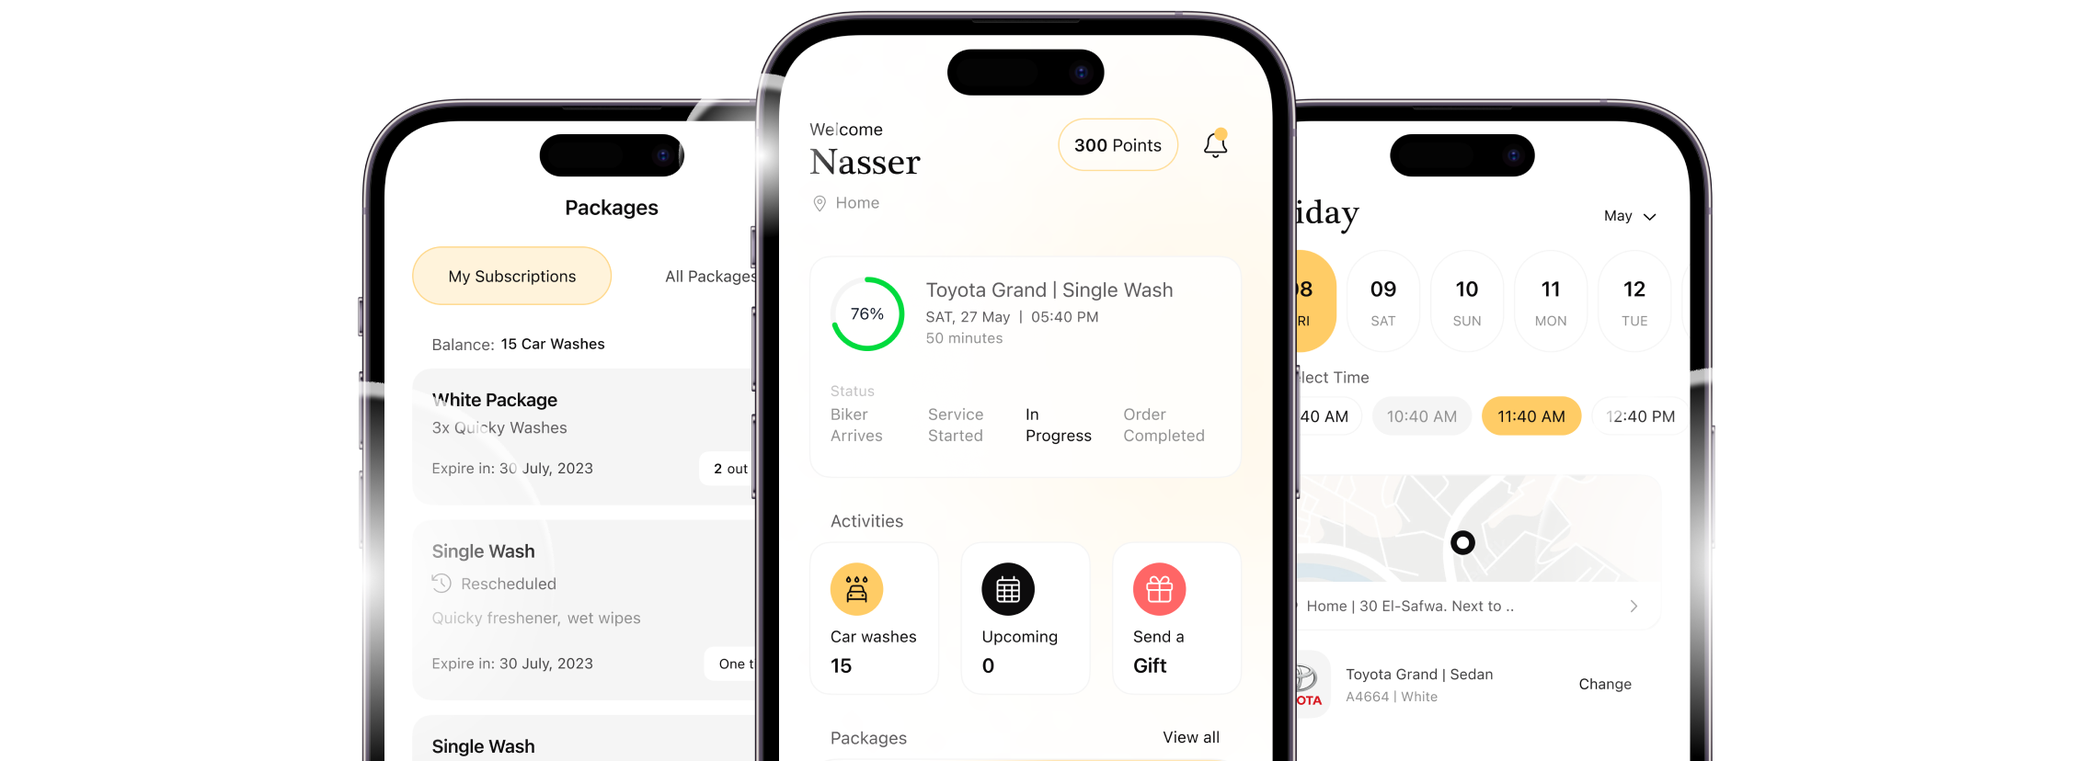
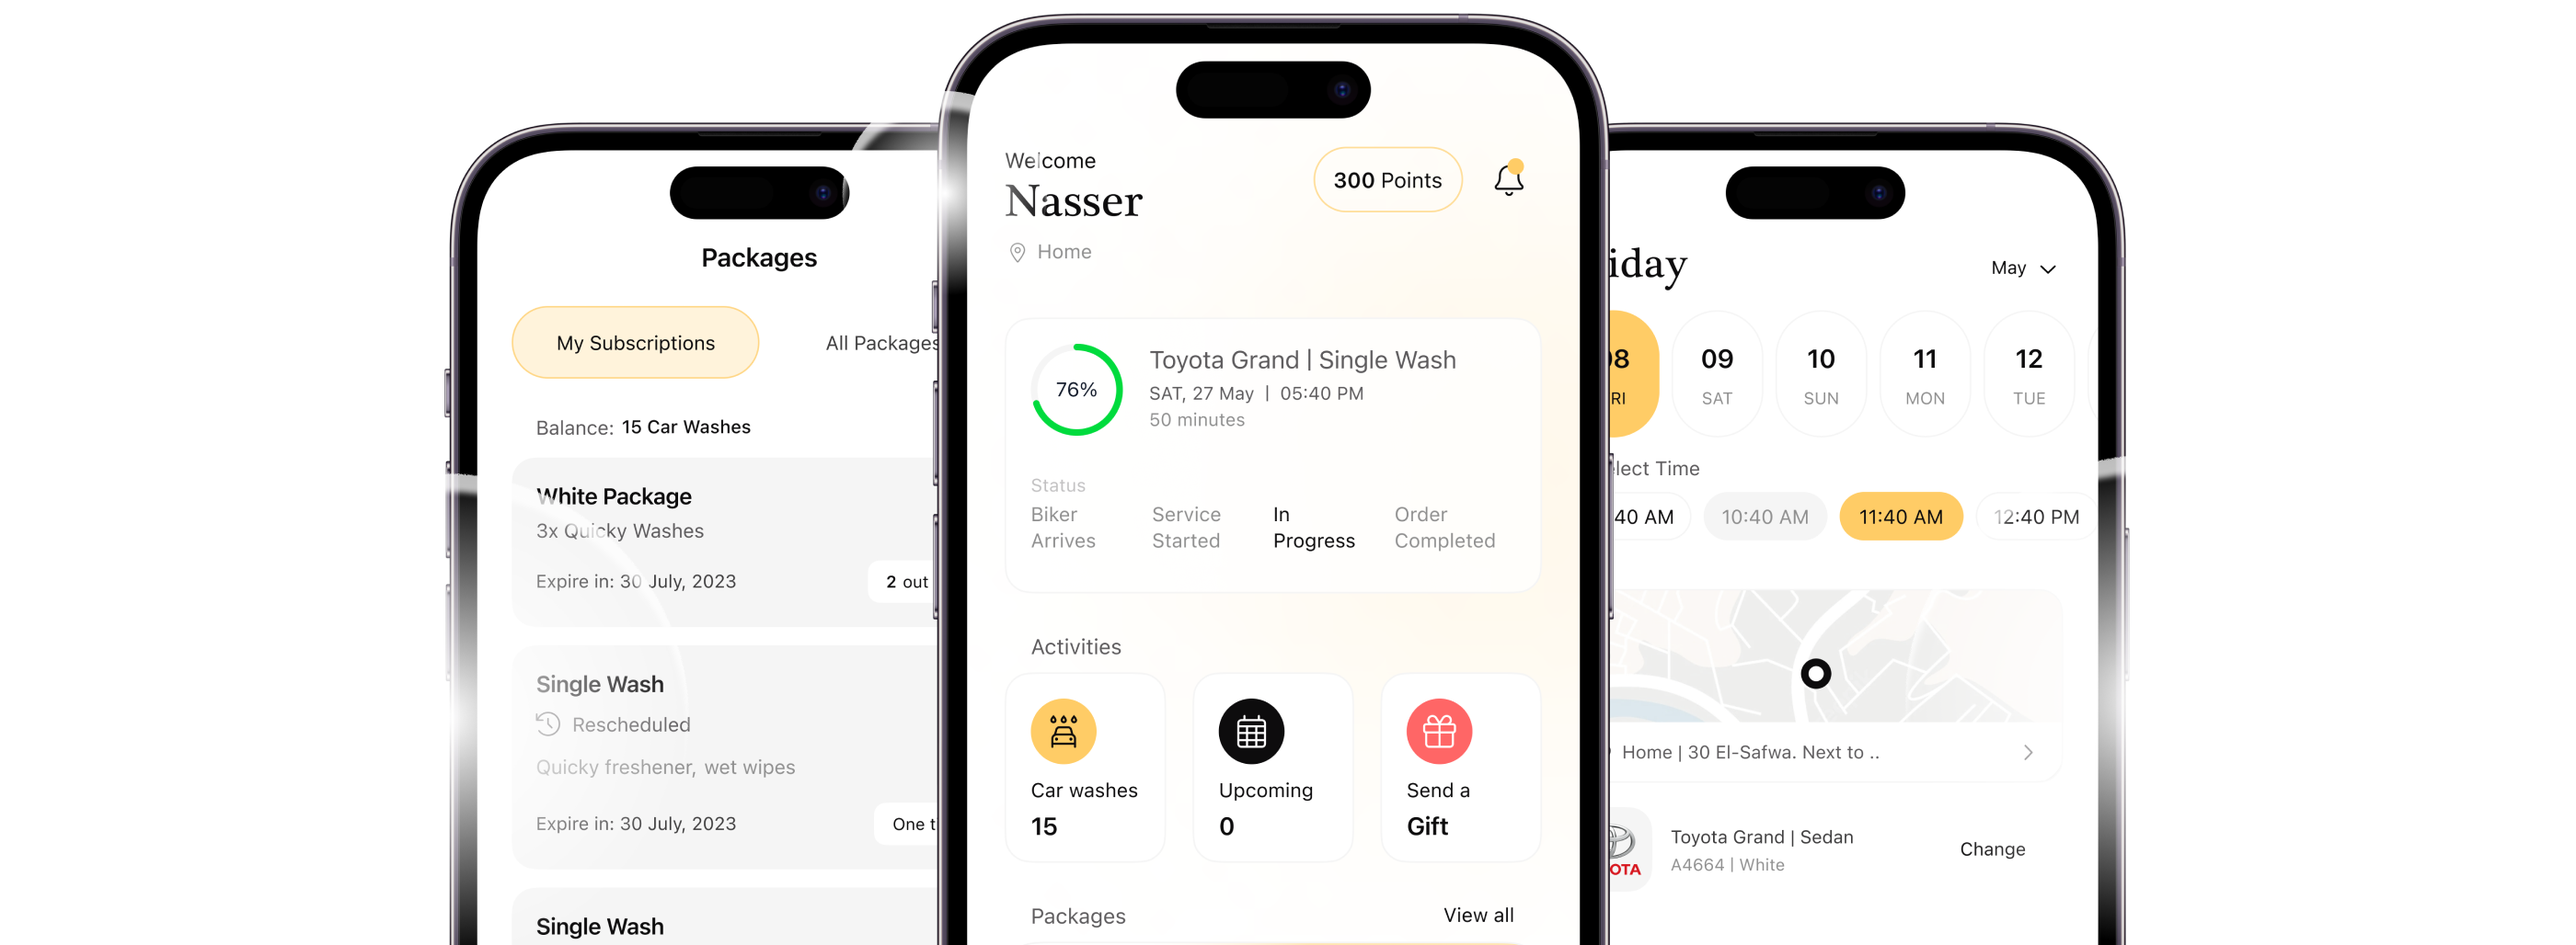
change-img

diff --git a/components/services.js b/components/services.js
@@ -11,7 +11,7 @@ const Services = () => {
     
         <div  class="grid px-5 lg:px-20 md:grid-cols-2  sm:grid-cols-1 gap-0  ">
        
-          <div className="flex flex-wrap justify-start text-right px-0 ">
+          <div className="flex flex-wrap justify-center md:justify-start md:text-right text-center px-0 ">
             <h5 className="bg-[#FFCC66] px-3 py-1 text-white">
             الخدمة و الجودة و الوقت.
             </h5>
@@ -19,36 +19,36 @@ const Services = () => {
 
             تعتزم كويكي كلين بتقديم أفضل المنتجات العالمية والأدوات ذات الجودة العالية لتكون الخيار الاول دائما للعملاء.            
             </h3>
-            <div className="max-w-sm flex flex-row justify-between mt-14 pt-2 gap-3 items-center">
+            <div className="max-w-sm flex flex-col md:flex-row justify-between mt-14 pt-2 gap-3 items-center">
             <span className="mx-0 px-0">
                 <Icon1 width={'65'} />
               </span>
-              <p className="max-w-2xl py-4 text-xs   text-gray-500 lg:text-sm xl:text-sm ">
+              <p className="max-w-2xl py-4 text-sm   text-gray-500 lg:text-base xl:text-base ">
               فرق من الخبراء المهتمين بتقديم أعلى مستويات الجودة والعناية لسيارتك، نحن هنا لضمان أفضل نتائج.
               </p>
               
             </div>
-            <div className="max-w-sm flex flex-row justify-between mt-3 pt-2 gap-3 items-center">
+            <div className="max-w-sm flex flex-col md:flex-row justify-between mt-3 pt-2 gap-3 items-center">
             <span className="mx-0 px-0">
                 <Icon2 width="65" />
               </span>
-              <p className="max-w-2xl py-4 text-xs   text-gray-500 lg:text-sm xl:text-sm ">
+              <p className="max-w-2xl py-4 text-sm   text-gray-500 lg:text-base xl:text-base ">
               اختر من بين باقات الغسيل المصممة بعناية لتلبية متطلبات ميزانيتك وتفضيلاتك.
               </p>
          
             </div>
-            <div className="max-w-sm flex flex-row justify-between mt-3 pt-2 gap-3 items-center">
+            <div className="max-w-sm flex flex-col md:flex-row justify-between mt-3 pt-2 gap-3 items-center">
             <span className="mx-0 px-0">
                 <Icon3 width="65" />
               </span>
-              <p className="max-w-2xl py-4 text-xs  text-gray-500 lg:text-sm xl:text-sm ">
+              <p className="max-w-2xl py-4 text-sm  text-gray-500 lg:text-base xl:text-base ">
               نقدم خدمة غسيل سيارتك بالمكان والوقت الذي تحدده. لن تضطر بعد الآن للانتظار في طوابير طويلة.
               </p>
            
             </div>
           </div>
           <div className="flex flex-wrap justify-center ">
-            <div className="relative sm:min-h-[300px] mt-14">
+            <div className="relative sm:min-h-[300px] md:block hidden mt-14">
               <Image
                 quality={100}
                 width={0}
@@ -59,8 +59,8 @@ const Services = () => {
                 style={{
                   zIndex: "1",
                   width: "100%",
-                  maxWidth: 600,
-                  minHeight: 250,
+                  maxWidth: 400,
+                  minHeight: 150,
                   height: "auto",
                   objectFit: "contain",
                   backgroundRepeat: "repeat",

diff --git a/components/footer.js b/components/footer.js
@@ -16,7 +16,7 @@ const Footer = () => {
       <Container className=" px-20">
         <div className=" pt-14 gap-5  sm:gap-0 grid grid-cols-1 md:grid-cols-3 text-center w-full">
       
-          <div className="grid gap-5 justify-items-center md:justify-items-start text-center md:text-right ">
+          <div className="hidden md:grid gap-5 justify-items-center md:justify-items-start text-center md:text-right ">
             <Logo  width={'125'}  />
             <p className="text-sm  text-gray-500 font-semibold line-clamp-6  max-w-[300px] break-words	">
               لإننا نهتم براحتك وأمان سيارتك.، قُمنا بتطوير نظام آمن وموثوق

diff --git a/components/hero.js b/components/hero.js
@@ -75,10 +75,9 @@ const Hero = () => {
                   zIndex: "1",
                   width: "100%",
                  
-                  maxWidth: 800,
+                  maxWidth: 1020,
                   minHeight: 150,
-                  height: "auto",
-                  objectFit: "contain",
+                  objectFit: "cover",
                 }}
                 // Set the desired height
               />
